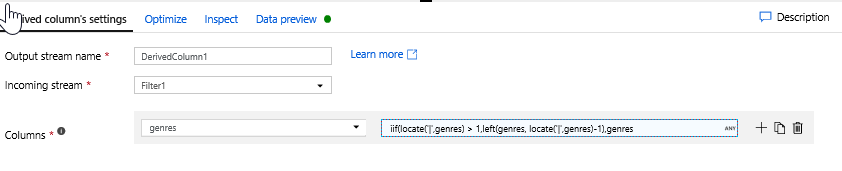
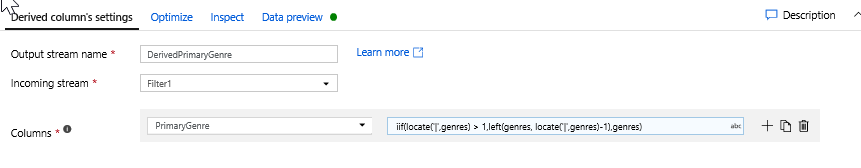
Lab 6 complete

diff --git a/instructions/dp-200-07_instructions.md b/instructions/dp-200-07_instructions.md
@@ -232,143 +232,69 @@ The main tasks for this exercise are as follows:
     ![Using the Expression Builder in the Mapping Data Flow in Azure Data Factory](Linked_Image_Files/M07-E03-T03-img04.png)
 
 
-1. **Add a Derive Transformation to calculate primary genre** As you may have noticed, the genres column is a string delimited by a '|' character. If you only care about the first genre in each column, you can derive a new column via the [Derived Column](https://docs.microsoft.com/azure/data-factory/data-flow-derived-column) transformation by clicking on the **+ icon** next to your Filter transformation and choosing Derived under Schema Modifier. Similar to the filter transformation, the derived column uses the Mapping Data Flow expression builder to specify the values of the new column.
+1. **Add a Derive Transformation to calculate primary genre** As you may have noticed, the genres column is a string delimited by a '|' character. If you only care about the *first* genre in each column, you can derive a new column named **PrimaryGenre** via the [Derived Column](https://docs.microsoft.com/azure/data-factory/data-flow-derived-column) transformation by clicking on the **+ icon** next to your Filter transformation and choosing Derived under Schema Modifier. Similar to the filter transformation, the derived column uses the Mapping Data Flow expression builder to specify the values of the new column.
 
     ![Using the Derived Transformation to a Mapping Data Flow in Azure Data Factory](Linked_Image_Files/M07-E03-T03-img05.png)
 
     In this scenario, you are trying to extract the first genre from the genres column which is formatted as 'genre1|genre2|...|genreN'. Use the **locate** function to get the first 1-based index of the '|' in the genres string. Using the **iif** function, if this index is greater than 1, the primary genre can be calculated via the **left** function which returns all characters in a string to the left of an index. Otherwise, the PrimaryGenre value is equal to the genres field. You can verify the output via the expression builder's Data preview pane.
 
    
-1. **Rank movies via a Window Transformation** Say you are interested in how a movie ranks within its year for its specific genre. You can add a [Window transformation](https://docs.microsoft.com/azure/data-factory/data-flow-window) to define window-based aggregations by clicking on the + icon next to your Derived Column transformation and clicking Window under Schema modifier. To accomplish this, specify what you are windowing over, what you are sorting by, what the range is, and how to calculate your new window columns. In this example, we will window over PrimaryGenre and year with an unbounded range, sort by Rotten Tomato descending, a calculate a new column called RatingsRank which is equal to the rank each movie has within its specific genre-year.
+1. **Rank movies via a Window Transformation** Say you are interested in how a movie ranks within its year for its specific genre. You can add a [Window transformation](https://docs.microsoft.com/azure/data-factory/data-flow-window) to define window-based aggregations by clicking on the **+ icon** next to your Derived Column transformation and clicking Window under Schema modifier. To accomplish this, specify what you are windowing over, what you are sorting by, what the range is, and how to calculate your new window columns. In this example, we will window over PrimaryGenre and year with an unbounded range, sort by Rotten Tomato descending, a calculate a new column called RatingsRank which is equal to the rank each movie has within its specific genre-year.
 
-    ![Window Over](./images/WindowOver.PNG "Window Over")
+    ![Window Over](Linked_Image_Files/WindowOver.PNG "Window Over")
 
-    ![Window Sort](./images/WindowSort.PNG "Window Sort")
+    ![Window Sort](Linked_Image_Files/WindowSort.PNG "Window Sort")
 
-    ![Window Bound](./images/WindowBound.PNG "Window Bound")
+    ![Window Bound](Linked_Image_Files/WindowBound.PNG "Window Bound")
 
-    ![Window Rank](./images/WindowRank.PNG "Window Rank")
+    ![Window Rank](Linked_Image_Files/WindowRank.PNG "Window Rank")
 
-1. **Aggregate ratings with an Aggregate Transformation** Now that you have gathered and derived all your required data, we can add an [Aggregate transformation](https://docs.microsoft.com/azure/data-factory/data-flow-aggregate) to calculate metrics based on a desired group by clicking on the + icon next to your Window transformation and clicking Aggregate under Schema modifier. As you did in the window transformation, lets group movies by genre and year
+1. **Aggregate ratings with an Aggregate Transformation** Now that you have gathered and derived all your required data, we can add an [Aggregate transformation](https://docs.microsoft.com/azure/data-factory/data-flow-aggregate) to calculate metrics based on a desired group by clicking on the **+ icon** next to your Window transformation and clicking Aggregate under Schema modifier. As you did in the window transformation, lets group movies by PrimaryGenre and year
 
-    ![Agg group by](./images/AggGroupBy.PNG "Agg group by")
+    ![Using the Aggregate Transformation to a Mapping Data Flow in Azure Data Factory](Linked_Image_Files/M07-E03-T03-img10.png)
 
     In the Aggregates tab, you can aggregations calculated over the specified group by columns. For every genre and year, lets get the average Rotten Tomatoes rating, the highest and lowest rated movie (utilizing the windowing function) and the number of movies that are in each group. Aggregation significantly reduces the amount of rows in your transformation stream and only propagates the group by and aggregate columns specified in the transformation.
 
-    * To see how the aggregate transformation changes your data, use the Data Preview tab
+    ![Configuring the Aggregate Transformation to a Mapping Data Flow in Azure Data Factory](Linked_Image_Files/M07-E03-T03-img11.png)
 
-    ![Aggregate](./images/Aggregate.PNG "Aggregate")
+    * To see how the aggregate transformation changes your data, use the Data Preview tab
+   
 
 1. **Specify Upsert condition via an Alter Row Transformation** If you are writing to a tabular sink, you can specify insert, delete, update and upsert policies on rows using the [Alter Row transformation](https://docs.microsoft.com/azure/data-factory/data-flow-alter-row) by clicking on the + icon next to your Aggregate transformation and clicking Alter Row under Row modifier. Since you are always inserting and updating, you can specify that all rows will always be upserted.
 
-    ![Upsert](./images/AlterRow.PNG "Upsert")
+    ![Using the Alter Row Transformation to a Mapping Data Flow in Azure Data Factory](Linked_Image_Files/M07-E03-T03-img12.png)
+
+    
 
 ### Task 4: Writing to a Data Sink
 
-1. **Write to a SQL DW Sink** Now that you have finished all your transformation logic, you are ready to write to a Sink.
-    1. Add a Sink by clicking on the + icon next to your Upsert transformation and clicking Sink under Destination.
-    1. In the Sink tab, create a new SQL DW dataset via the + New button.
-    ![Data Flow](./images/dataflow6.png)
-    1. Select Azure SQL Data Warehouse from the tile list.
-    ![Data Flow](./images/dataflow7.png)
-    1. Select a new linked service and configure your SQL DW connection credentials. Click 'Create' when finished.
-    ![Data Flow](./images/dataflow8.png)
-    1. In the dataset configuration, select 'Create new table' and enter in your desired table name. Click 'Finish' once completed.
-    ![Data Flow](./images/dataflow9.png)
+1. **Write to a Azure Synapse Analytics Sink** Now that you have finished all your transformation logic, you are ready to write to a Sink.
+    1. Add a **Sink** by clicking on the **+ icon** next to your Upsert transformation and clicking Sink under Destination.
+    1. In the Sink tab, create a new data warehouse dataset via the **+ New button**.
+    1. Select **Azure Synapse Analytics** from the tile list.
+    1. Select a new linked service and configure your Azure Synapse Analytics connection to connect to the DWDB database created in Module 5. Click **Create** when finished.
+    ![Creating an Azure Synapse Analytics connection in Azure Data Factory](Linked_Image_Files/M07-E03-T04-img01.png)
+    1. In the dataset configuration, select **Create new table** and enter in the schema of **Dbo** and the  table name of **Ratings**. Click **OK** once completed.
+    ![Creating an Azure Synapse Analytics table in Azure Data Factory](Linked_Image_Files/M07-E03-T04-img02.png)
     1. Since an upsert condition was specified, you need to go to the Settings tab and select 'Allow upsert' based on key columns PrimaryGenre and year.
-    ![Sink](./images/Sink.PNG "Sink")
+    ![Configuring Sink settings in Azure Data Factory](Linked_Image_Files/M07-E03-T04-img03.png)
 At this point, You have finished building your 8 transformation Mapping Data Flow. It's time to run the pipeline and see the results!
 
-![Data Flow Canvas](./images/DataFlowCanvas.PNG "Data Flow Canvas")
+![Completed Mapping Data Flow in Azure Data Factory](Linked_Image_Files/M07-E03-T04-img04.png)
 
 ## Task 5: Running the Pipeline
 
-Go to the pipeline canvas. Because SQL DW in Data Flow uses [PolyBase](https://docs.microsoft.com/sql/relational-databases/polybase/polybase-guide?view=sql-server-2017), you must specify a blob or ADLS staging folder. In the Execute Data Flow activity's settings tab, open up the PolyBase accordion and select your ADLS linked service and specify a staging folder path.
+1. Go to the pipeline1 tab in the canvas. Because Azure Synapse Analytics in Data Flow uses [PolyBase](https://docs.microsoft.com/sql/relational-databases/polybase/polybase-guide?view=sql-server-2017), you must specify a blob or ADLS staging folder. In the Execute Data Flow activity's settings tab, open up the PolyBase accordion and select your ADLS linked service and specify a staging folder path.
 
-![Data Flow](./images/pipeline1.png)
-
-Before you publish your pipeline, run another debug run to confirm it's working as expected. Looking at the Output tab, you can monitor the status of both activities as they are running.
-
-![Full Debug](./images/FullDebug.PNG "Full Debug")
-
-Once both activities succeeded, you can click on the eyeglasses icon next to the Data Flow activity to get a more in depth look at the Data Flow run.
-
-![Data Flow Monitoring](./images/DataFlowMonitoring.PNG "Data Flow monitoring")
-
-If you used the same logic described in this lab, your Data Flow should will written 737 rows to your SQL DW. You can go into [SQL Server Management Studio](https://docs.microsoft.com/sql/ssms/download-sql-server-management-studio-ssms?view=sql-server-2017) to verify the pipeline worked correctly and see what got written.
-
-
-## Exercise 4: Azure Data Factory and Databricks
-
-Estimated Time: 25 minutes
-
-Individual exercise
-  
-The main tasks for this exercise are as follows:
-
-1. Prepare the environment
-
-1. Add a data source
-
-1. Performing data transformations
-
-1. Running the Pipeline
-
-### Task 1: Prepare the environment
-
-Now that you have moved the data into ADLS, you are ready to build a Mapping Data Flow which will transform your data at scale via a spark cluster and then load it into a Data Warehouse.
-
-1. **Turn on Data Flow Debug** Turn the Data Flow Debug slider located at the top of the authoring module on. Data Flow clusters take 5-7 minutes to warm up and users are recommended to turn on debug first if they plan to do Data Flow development. 
-
-1. **Add a Data Flow activity** In the Activities pane, open the Move and Transform accordion and drag the Data Flow activity onto the pipeline canvas. In the sidenav that pops up, select Create new Data Flow and select Mapping Data Flow. Go back to the pipeline canvas and drag the green box from your Copy activity to the Data Flow Activity to create an on success condition.
-
-### Task 2: Add a data source
-
-1. **Add an ADLS source** Open the Data Flow canvas. Click on the Add Source button in the Data Flow canvas. In the source dataset dropdown, select your ADLS Gen2 dataset used in your Copy activity
-    
-1. Once your debug cluster is warmed up, verify your data is loaded correctly via the Data Preview tab. Once you click the refresh button, Mapping Data Flow will show calculate a snapshot of what your data looks like when it is at each transformation.
-
-### Task 3: Performing data transformations
-
-1. **Add a Select transformation to rename and drop a column** You may have noticed that the Rotton Tomatoes column is misspelled. To correctly name it and drop the unused Rating column, you can add a [Select transformation](https://docs.microsoft.com/azure/data-factory/data-flow-select) by clicking on the + icon next to your ADLS source node and choosing Select under Schema modifier.
-
-1. In the Name as field, change 'Rotton' to 'Rotten'. To drop the Rating column, hover over it and click on the trash can icon.
-
-1. **Add a Filter Transformation to filter out unwanted years** Say you are only interested in movies made after 1951. You can add a [Filter transformation](https://docs.microsoft.com/azure/data-factory/data-flow-filter) to specify a filter condition by clicking on the + icon next to your Select transformation and choosing Filter under Row Modifier. Click on the expression box to open up the [Expression builder](https://docs.microsoft.com/azure/data-factory/concepts-data-flow-expression-builder) and enter in your filter condition. Using the syntax of the [Mapping Data Flow expression language](https://docs.microsoft.com/azure/data-factory/data-flow-expression-functions), **toInteger(year) > 1950** will convert the string year value to an integer and filter rows if that value is above 1950.
-
-1. You can use the expression builder's embedded Data preview pane to verify your condition is working properly
-
-1. **Add a Derive Transformation to calculate primary genre** As you may have noticed, the genres column is a string delimited by a '|' character. If you only care about the first genre in each column, you can derive a new column via the [Derived Column](https://docs.microsoft.com/azure/data-factory/data-flow-derived-column) transformation by clicking on the + icon next to your Filter transformation and choosing Derived under Schema Modifier. Similar to the filter transformation, the derived column uses the Mapping Data Flow expression builder to specify the values of the new column.
-
-1. In this scenario, you are trying to extract the first genre from the genres column which is formatted as 'genre1|genre2|...|genreN'. Use the **locate** function to get the first 1-based index of the '|' in the genres string. Using the **iif** function, if this index is greater than 1, the primary genre can be calculated via the **left** function which returns all characters in a string to the left of an index. Otherwise, the PrimaryGenre value is equal to the genres field. You can verify the output via the expression builder's Data preview pane.
-
-1. **Rank movies via a Window Transformation** Say you are interested in how a movie ranks within its year for its specific genre. You can add a [Window transformation](https://docs.microsoft.com/azure/data-factory/data-flow-window) to define window-based aggregations by clicking on the + icon next to your Derived Column transformation and clicking Window under Schema modifier. To accomplish this, specify what you are windowing over, what you are sorting by, what the range is, and how to calculate your new window columns. In this example, we will window over PrimaryGenre and year with an unbounded range, sort by Rotten Tomato descending, a calculate a new column called RatingsRank which is equal to the rank each movie has within its specific genre-year.
-
-1. **Aggregate ratings with an Aggregate Transformation** Now that you have gathered and derived all your required data, we can add an [Aggregate transformation](https://docs.microsoft.com/azure/data-factory/data-flow-aggregate) to calculate metrics based on a desired group by clicking on the + icon next to your Window transformation and clicking Aggregate under Schema modifier. As you did in the window transformation, lets group movies by genre and year
-
-1. In the Aggregates tab, you can aggregations calculated over the specified group by columns. For every genre and year, lets get the average Rotten Tomatoes rating, the highest and lowest rated movie (utilizing the windowing function) and the number of movies that are in each group. Aggregation significantly reduces the amount of rows in your transformation stream and only propagates the group by and aggregate columns specified in the transformation.
-
-    * To see how the aggregate transformation changes your data, use the Data Preview tab
-
-1. **Specify Upsert condition via an Alter Row Transformation** If you are writing to a tabular sink, you can specify insert, delete, update and upsert policies on rows using the [Alter Row transformation](https://docs.microsoft.com/azure/data-factory/data-flow-alter-row) by clicking on the + icon next to your Aggregate transformation and clicking Alter Row under Row modifier. Since you are always inserting and updating, you can specify that all rows will always be upserted.
-
-1. **Write to a Azure Synapse Sink** Now that you have finished all your transformation logic, you are ready to write to a Sink.
-    1. Add a Sink by clicking on the + icon next to your Upsert transformation and clicking Sink under Destination.
-    1. In the Sink tab, create a new SQL DW dataset via the + New button.
-    1. Select Azure SQL Data Warehouse from the tile list.
-    1. Select a new linked service and configure your SQL DW connection credentials. Click 'Create' when finished.
-    1. In the dataset configuration, select 'Create new table' and enter in your desired table name. Click 'Finish' once completed.
-    1. Since an upsert condition was specified, you need to go to the Settings tab and select 'Allow upsert' based on key columns PrimaryGenre and year.
-
-At this point, You have finished building your 8 transformation Mapping Data Flow. It's time to run the pipeline and see the results!
-
-### Task 4: Running the Pipeline
-
-1. Go to the pipeline canvas. Because Azure Synapse Analytics in Data Flow uses [PolyBase](https://docs.microsoft.com/sql/relational-databases/polybase/polybase-guide?view=sql-server-2017), you must specify a blob or ADLS staging folder. In the Execute Data Flow activity's settings tab, open up the PolyBase accordion and select your ADLS linked service and specify a staging folder path.
+    ![PolyBase configuration in Azure Data Factory](Linked_Image_Files/M07-E03-T05-img01.png)
 
 1. Before you publish your pipeline, run another debug run to confirm it's working as expected. Looking at the Output tab, you can monitor the status of both activities as they are running.
 
 1. Once both activities succeeded, you can click on the eyeglasses icon next to the Data Flow activity to get a more in depth look at the Data Flow run.
+
+1. If you used the same logic described in this lab, your Data Flow should will written 737 rows to your SQL DW. You can go into [SQL Server Management Studio](https://docs.microsoft.com/sql/ssms/download-sql-server-management-studio-ssms?view=sql-server-2017) to verify the pipeline worked correctly and see what got written.
+
+    ![Querying the results in SQL Server Management Studio](Linked_Image_Files/M07-E03-T05-img02.png)
 
 ## Exercise 4: Azure Data Factory and Databricks
   
